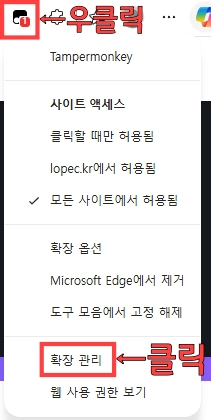
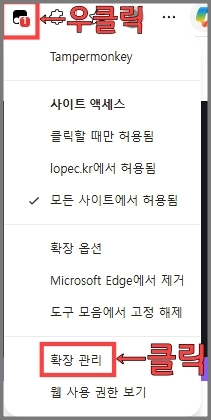
업데이트 리드미

Changed region(s): [[0.0, 0.0, 1.0, 1.0]]

diff --git a/script.user.js b/script.user.js
@@ -4801,8 +4801,8 @@
                                         <span>질서 코어 조합을 변경하면서 시뮬레이션 할 수 있도록 데이터 입력/처리 방식을 개선하였습니다.<br>물론 데이터는 사용자가 직접 만들어야 합니다.</span>
                                     </li>
                                     <li style="display: flex; align-items: flex-start; gap: 6px; color: #cbd5e1; font-size: 0.78rem; line-height: 1.4;">
-                                        <span style="color: #a78bfa; font-size: 0.68rem; font-weight: bold; background: rgba(167, 139, 250, 0.15); padding: 1px 5px; border-radius: 4px; flex-shrink: 0; margin-top: 1px;">데이터</span>
-                                        <span><strong>스킬 트라이포드</strong>: 스킬 트라이포드 시뮬레이션을 추가했습니다. 스킬 데이터 파일을 업데이트 해주셔야 합니다. 트라이포드 시뮬레이션이 필요가 없다면 기존 스킬 데이터 파일을 그대로 사용 가능합니다.</span>
+                                        <span style="color: #a78bfa; font-size: 0.68rem; font-weight: bold; background: rgba(167, 139, 250, 0.15); padding: 1px 5px; border-radius: 4px; flex-shrink: 0; margin-top: 1px;">스킬 트라이포드 시뮬레이션 지원</span>
+                                        <span>스킬 트라이포드 시뮬레이션을 추가했습니다. 스킬 데이터 파일을 업데이트 해주셔야 합니다. 트라이포드 시뮬레이션이 필요가 없다면 기존 스킬 데이터 파일을 그대로 사용 가능합니다.</span>
                                     </li>
                                 </ul>
                             </div>
